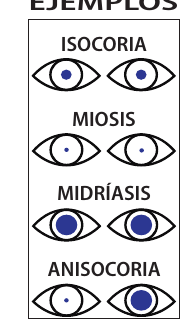
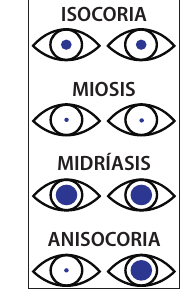
fix(PAS): siluetas a la misma escala, constantes mas altas y firmas de indicativos
SILUETAS
Llevaba varios intentos sin acertar y la causa era esta: las dos imagenes no
tienen la misma proporcion (603x760 y 536x760 px), y yo les daba el mismo ancho.
Con object-fit contain, cada una se dibujaba entonces a una escala distinta y
los cuerpos salian de distinto tamaño. Ahora cada una recibe el ancho que le
toca por su propia proporcion: 55,4 y 49,2 mm a 69,8 de alto. Medido en el
navegador, ambas se dibujan a escala 0,347.

CONSTANTES
Sobraba blanco por debajo. Las celdas suben de 3,8 a 5,4 mm y el texto de 6,3 a
7,1 pt; los encabezados, a 6 pt con mas aire.

FIRMAS
Junto al Vo Bo del Jefe de Servicio se añaden dos huecos mas para la firma de
los indicativos que intervienen, rotulados con el indicativo elegido arriba.

ACCIDENTES DE TRAFICO
Las celdas iban pegadas: la separacion pasa de 1,4 a 3 mm y su alto de 2,9 a
4,2.

EJEMPLOS DE PUPILA
Quedaba texto suelto sobre el recuadro; se recorta hasta el propio recuadro.

Comprobado ademas que el marcado de reactivas si registra: al elegir Si, el
campo guarda "si".

Changed region(s): [[0.1389, 0.0, 1.0, 1.0]]

diff --git a/src/components/partes/PasHoja.tsx b/src/components/partes/PasHoja.tsx
@@ -141,7 +141,8 @@ export default function PasHoja({
     }
 
     const figura = (n: number, src: string) => (
-        <div className={`pas-figura${editable ? ' editable' : ''}`} onClick={tocarFigura(n)}>
+        <div className={`pas-figura ${n === 0 ? 'frontal' : 'lateral'}${editable ? ' editable' : ''}`}
+             onClick={tocarFigura(n)}>
             {/* eslint-disable-next-line @next/next/no-img-element */}
             <img src={src} alt={n === 0 ? 'Figura frontal y dorsal' : 'Figura frontal y dorsal'} />
             {marcas.map((m, i) => m.figura === n && (
@@ -273,7 +274,7 @@ export default function PasHoja({
                             <thead>
                                 <tr style={{ background: 'var(--campo)' }}>
                                     {['', 'Hora', 'FR', 'FC', 'TA', 'Resp.', 'O₂ L/min', 'FiO₂', 'Sat.', 'Gluc.', 'GCS', 'Pupila I', 'Pupila D', 'React.'].map(h => (
-                                        <th key={h} style={{ fontSize: '5.6pt', padding: '.4mm', textTransform: 'uppercase', color: 'var(--etiqueta)' }}>{h}</th>
+                                        <th key={h} style={{ fontSize: '6pt', padding: '.8mm .4mm', textTransform: 'uppercase', color: 'var(--etiqueta)' }}>{h}</th>
                                     ))}
                                 </tr>
                             </thead>
@@ -288,12 +289,12 @@ export default function PasHoja({
                                     return (
                                         <tr key={i}>
                                             <td style={{ fontWeight: 700, textAlign: 'center', width: '7mm' }}>{i + 1}ª</td>
-                                            <td><input type="time" className="pas-campo pas-centrado" style={{ height: '3.8mm', fontSize: '6pt' }} value={c.hora} disabled={!editable} onChange={e => act('hora', e.target.value)} /></td>
+                                            <td><input type="time" className="pas-campo pas-centrado" style={{ height: '5.4mm', fontSize: '6.7pt' }} value={c.hora} disabled={!editable} onChange={e => act('hora', e.target.value)} /></td>
                                             {(['fr', 'fc', 'ta'] as const).map(k => (
-                                                <td key={k}><input className="pas-campo pas-centrado" style={{ height: '3.8mm', fontSize: '6.3pt' }} value={c[k]} readOnly={!editable} onChange={e => act(k, e.target.value)} /></td>
+                                                <td key={k}><input className="pas-campo pas-centrado" style={{ height: '5.4mm', fontSize: '7.1pt' }} value={c[k]} readOnly={!editable} onChange={e => act(k, e.target.value)} /></td>
                                             ))}
                                             <td>
-                                                <select className="pas-campo pas-centrado" style={{ height: '3.8mm', fontSize: '6pt' }} value={c.respiracion} disabled={!editable} onChange={e => act('respiracion', e.target.value)}>
+                                                <select className="pas-campo pas-centrado" style={{ height: '5.4mm', fontSize: '6.7pt' }} value={c.respiracion} disabled={!editable} onChange={e => act('respiracion', e.target.value)}>
                                                     <option value="">—</option>
                                                     <option value="norm">Norm</option>
                                                     <option value="ansi">Ansi</option>
@@ -301,13 +302,13 @@ export default function PasHoja({
                                                 </select>
                                             </td>
                                             {(['oxiLmin', 'oxiFio2', 'saturacion', 'glucosa'] as const).map(k => (
-                                                <td key={k}><input className="pas-campo pas-centrado" style={{ height: '3.8mm', fontSize: '6.3pt' }} value={c[k]} readOnly={!editable} onChange={e => act(k, e.target.value)} /></td>
+                                                <td key={k}><input className="pas-campo pas-centrado" style={{ height: '5.4mm', fontSize: '7.1pt' }} value={c[k]} readOnly={!editable} onChange={e => act(k, e.target.value)} /></td>
                                             ))}
                                             <td style={{ textAlign: 'center', fontWeight: 700 }}>{total ?? '—'}</td>
                                             {/* El modelo valora cada ojo por separado */}
                                             {(['pupilaI', 'pupilaD'] as const).map(ojo => (
                                                 <td key={ojo}>
-                                                    <select className="pas-campo pas-centrado" style={{ height: '3.8mm', fontSize: '6pt' }}
+                                                    <select className="pas-campo pas-centrado" style={{ height: '5.4mm', fontSize: '6.7pt' }}
                                                             value={(c as any)[ojo]} disabled={!editable} onChange={e => act(ojo, e.target.value)}>
                                                         <option value="">—</option>
                                                         {PUPILAS.map(o => <option key={o.valor} value={o.valor}>{o.label}</option>)}
@@ -315,7 +316,7 @@ export default function PasHoja({
                                                 </td>
                                             ))}
                                             <td>
-                                                <select className="pas-campo pas-centrado" style={{ height: '3.8mm', fontSize: '6pt' }}
+                                                <select className="pas-campo pas-centrado" style={{ height: '5.4mm', fontSize: '6.7pt' }}
                                                         value={c.reactivas} disabled={!editable} onChange={e => act('reactivas', e.target.value)}>
                                                     <option value="">—</option>
                                                     <option value="si">Sí</option>
@@ -521,21 +522,21 @@ export default function PasHoja({
                     <Bloque y="238.8mm">
                         <Sec>Accidentes de tráfico</Sec>
                         <div className="pas-caja">
-                            <div style={{ display: 'flex', alignItems: 'center', gap: '1.4mm' }}>
+                            <div style={{ display: 'flex', alignItems: 'center', gap: '3mm' }}>
                                 <span style={{ fontSize: '5.2pt', whiteSpace: 'nowrap', flex: '0 0 auto' }}>Matrícula vehículos implicados</span>
                                 {d.matriculas.map((m, i) => (
-                                    <input key={i} className="pas-campo pas-centrado" style={{ height: '2.9mm' }}
+                                    <input key={i} className="pas-campo pas-centrado" style={{ height: '4.2mm' }}
                                            value={m} readOnly={!editable}
                                            onChange={e => { const n = [...d.matriculas]; n[i] = e.target.value; onCampo?.('matriculas', n) }} />
                                 ))}
                             </div>
-                            <div style={{ display: 'flex', alignItems: 'center', gap: '1.4mm', marginTop: '.25mm' }}>
+                            <div style={{ display: 'flex', alignItems: 'center', gap: '3mm', marginTop: '1.4mm' }}>
                                 <span style={{ fontSize: '5.2pt', whiteSpace: 'nowrap', flex: '0 0 auto' }}>Agentes de la autoridad que intervienen</span>
                                 <span style={{ fontSize: '5.2pt', textTransform: 'uppercase', whiteSpace: 'nowrap' }}>Policía Local de</span>
-                                <input className="pas-campo" style={{ height: '2.9mm' }} value={d.policiaLocalDe}
+                                <input className="pas-campo" style={{ height: '4.2mm' }} value={d.policiaLocalDe}
                                        readOnly={!editable} onChange={e => set('policiaLocalDe')(e.target.value)} />
                                 <span style={{ fontSize: '5.2pt', textTransform: 'uppercase', whiteSpace: 'nowrap' }}>Guardia Civil de</span>
-                                <input className="pas-campo" style={{ height: '2.9mm' }} value={d.guardiaCivilDe}
+                                <input className="pas-campo" style={{ height: '4.2mm' }} value={d.guardiaCivilDe}
                                        readOnly={!editable} onChange={e => set('guardiaCivilDe')(e.target.value)} />
                             </div>
                         </div>
@@ -593,13 +594,25 @@ export default function PasHoja({
                         </div>
                     </Bloque>
 
+                    {/* Firman los dos indicativos que intervienen y el Jefe de Servicio */}
                     <Bloque y="254.4mm" x="154mm" w="42.8mm">
-                        <Sec>Vº Bº Jefe de Servicio</Sec>
-                        <div className="pas-caja" style={{ height: '11.4mm', display: 'flex', alignItems: 'center', justifyContent: 'center' }}>
-                            {d.firmaJefe
-                                /* eslint-disable-next-line @next/next/no-img-element */
-                                ? <img src={d.firmaJefe} alt="Firma" style={{ maxHeight: '100%', maxWidth: '100%', objectFit: 'contain' }} />
-                                : <span style={{ fontSize: '6pt', color: '#A8B2C1' }}>J-44</span>}
+                        <Sec>Firmas</Sec>
+                        <div className="pas-caja" style={{ display: 'grid', gridTemplateColumns: '1fr 1fr 1fr', gap: '.8mm' }}>
+                            {([['firmaInd1', d.indicativosIntervienen[0] || 'Indicativo 1'],
+                               ['firmaInd2', d.indicativosIntervienen[1] || 'Indicativo 2'],
+                               ['firmaJefe', 'Vº Bº ' + (d.indicativosIntervienen.includes('J-44') ? 'J-44' : 'Jefe')]] as const).map(([campo, pie]) => (
+                                <div key={campo}>
+                                    <div style={{ height: '9mm', border: '.25mm solid var(--regla)',
+                                                  display: 'flex', alignItems: 'center', justifyContent: 'center' }}>
+                                        {(d as any)[campo]
+                                            /* eslint-disable-next-line @next/next/no-img-element */
+                                            ? <img src={(d as any)[campo]} alt={`Firma ${pie}`} style={{ maxHeight: '100%', maxWidth: '100%', objectFit: 'contain' }} />
+                                            : null}
+                                    </div>
+                                    <div style={{ fontSize: '5pt', textAlign: 'center', color: 'var(--etiqueta)',
+                                                  textTransform: 'uppercase', marginTop: '.3mm' }}>{pie}</div>
+                                </div>
+                            ))}
                         </div>
                     </Bloque>
                 </div>

diff --git a/src/components/partes/pas-hoja.css b/src/components/partes/pas-hoja.css
@@ -117,10 +117,14 @@ textarea.pas-campo { height: auto; padding: 1mm; resize: none; line-height: 1.35
 
 /* ── Figuras anatómicas con marcas de lesión ─────────────────────────────── */
 .pas-figuras { position: relative; display: flex; gap: 3mm; justify-content: center; align-items: flex-start; }
-/* Las dos imágenes tienen proporciones distintas en el original; se les da el
-   mismo alto y se reparten el ancho a partes iguales para que ocupen lo mismo. */
-.pas-figura { position: relative; flex: 1 1 0; min-width: 0; }
-.pas-figura img { height: 69.8mm; width: 100%; object-fit: contain; object-position: center top; image-rendering: auto; }
+/* Las dos imágenes no tienen la misma proporción: 603x760 y 536x760 px. Darles
+   el mismo ancho hacía que cada una se dibujara a una escala distinta y los
+   cuerpos salieran de distinto tamaño. A cada una se le da el ancho que le toca
+   por su propia proporción, con lo que ambas se dibujan a la misma escala. */
+.pas-figura { position: relative; flex: 0 0 auto; }
+.pas-figura.frontal { width: 55.4mm; }
+.pas-figura.lateral { width: 49.2mm; }
+.pas-figura img { height: 69.8mm; width: 100%; display: block; }
 .pas-figura img { width: 100%; height: auto; display: block; }
 .pas-figura.editable { cursor: crosshair; }
 .pas-marca {

diff --git a/src/lib/pas-campos.ts b/src/lib/pas-campos.ts
@@ -244,7 +244,7 @@ export function estadoInicialPAS() {
 
         // Firmas
         indicativosIntervienen: ['', '', '', ''] as string[],
-        firmaIndicativos: '', firmaJefe: '',
+        firmaInd1: '', firmaInd2: '', firmaJefe: '',
     }
 }
 
